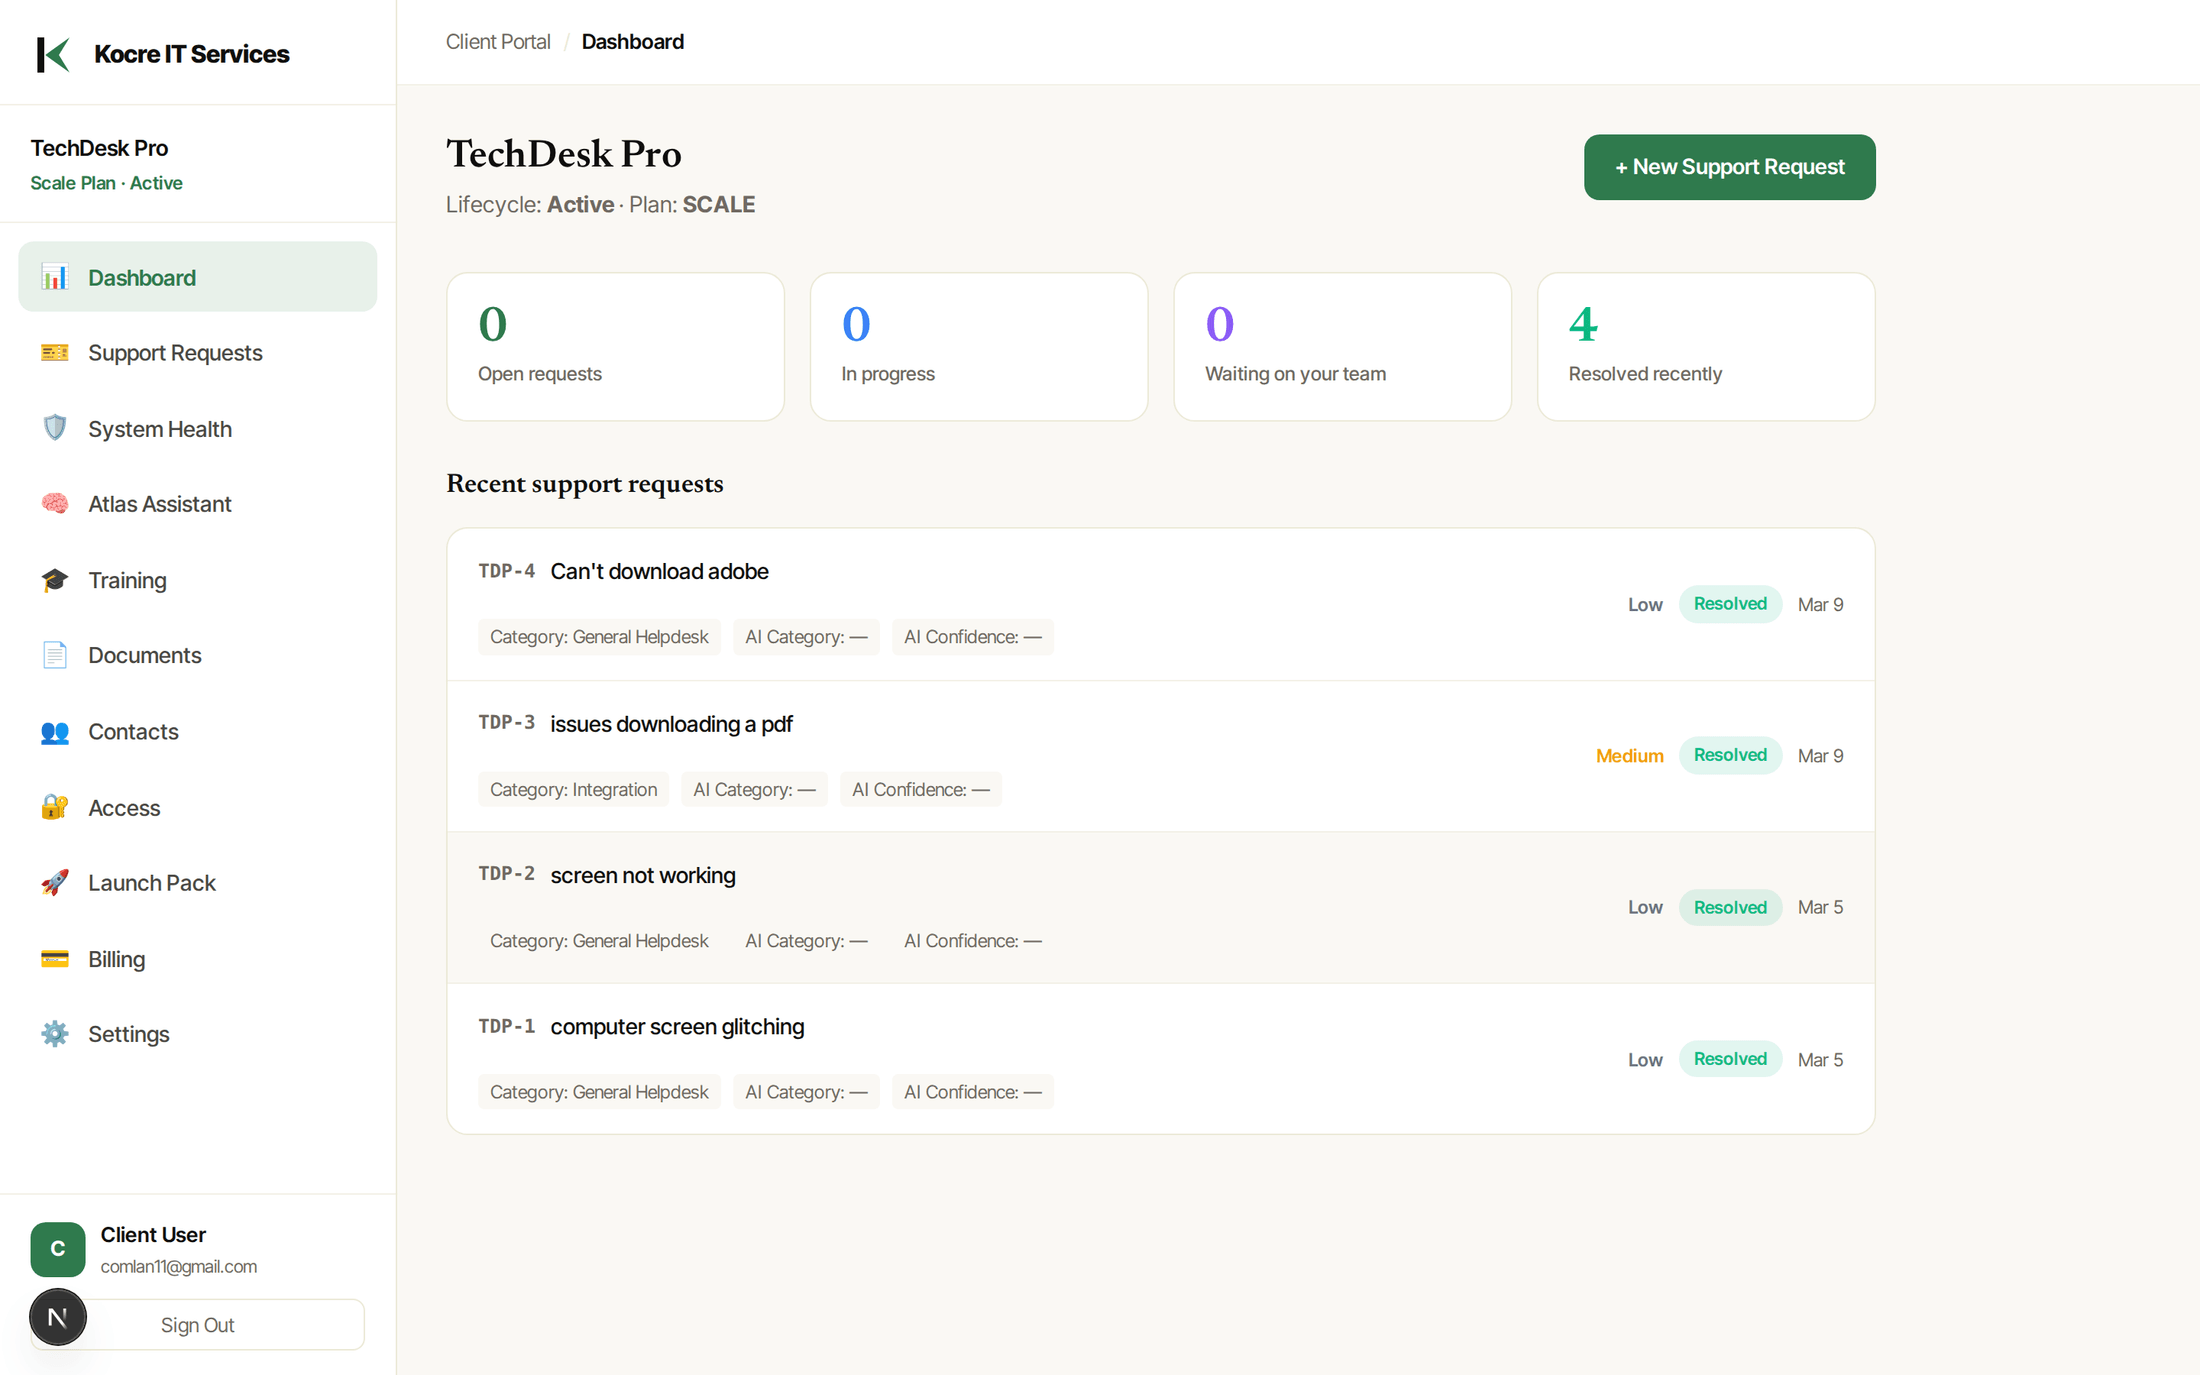
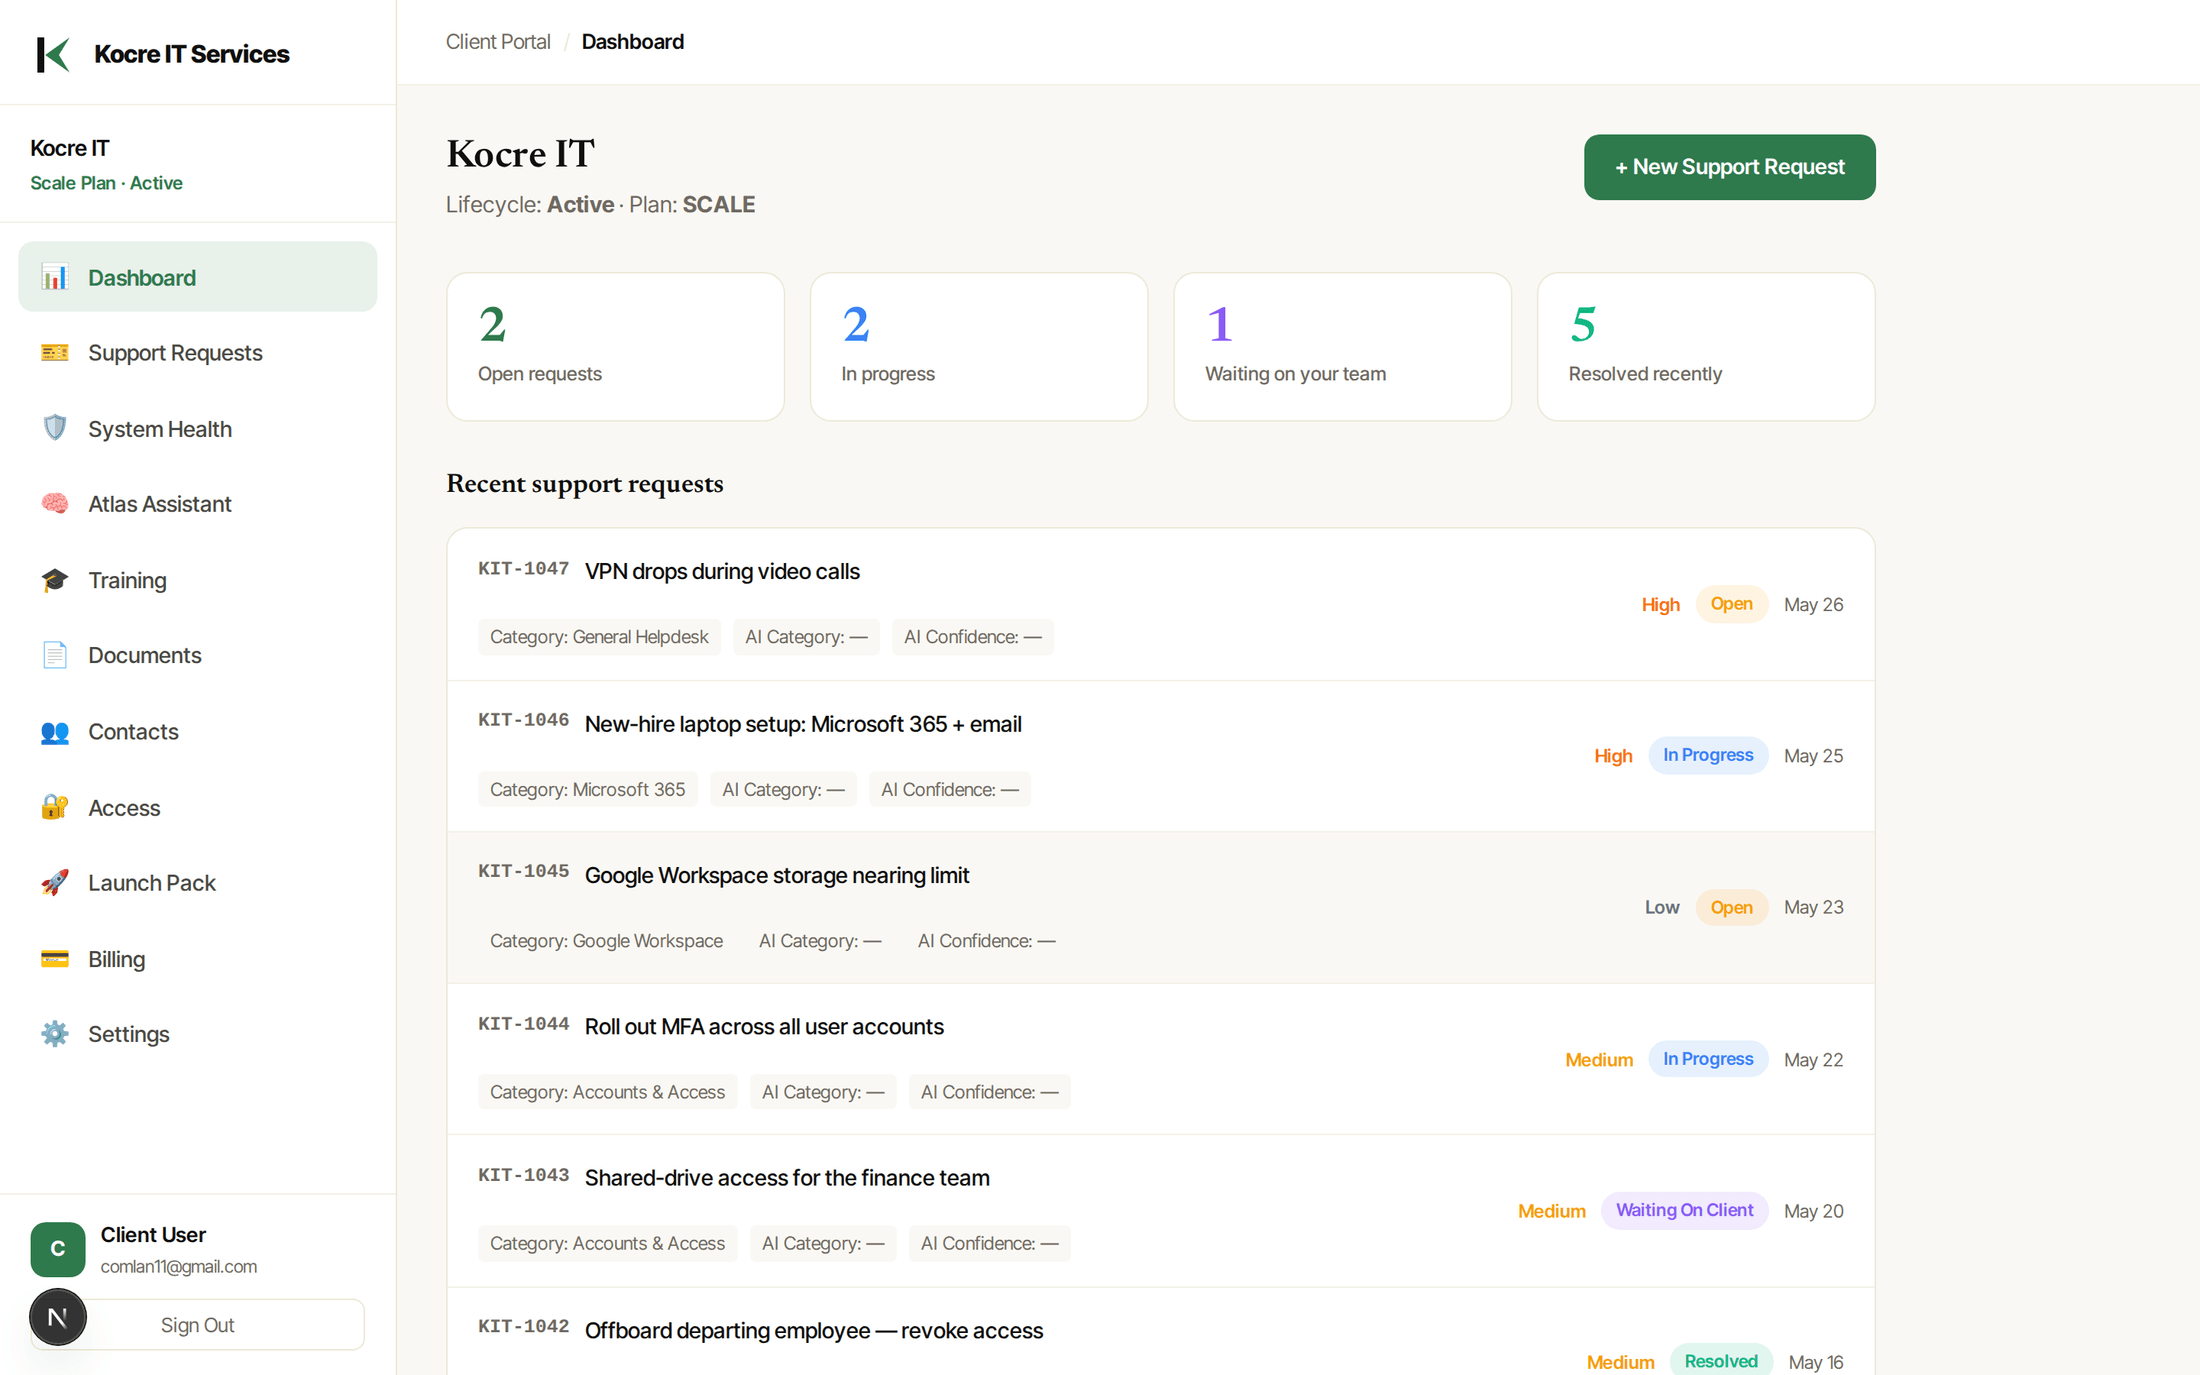
Rebrand TechDesk Pro to Kocre IT and refresh hero portal shot
Replace the generic "TechDesk Pro" brand across pages, AI prompts, and
the OAuth app name; switch the hardcoded ticket prefix TDP- to KIT- in
portal and admin views; update old contact domains to kocreit.com. Swap
the hero portal screenshot for a cleaner one (Kocre IT workspace, KIT-
tickets, varied request statuses).

https://claude.ai/code/session_011dJHhTWhQyHM3tExvhCPLj

diff --git a/techdesk-pro/lib/ghost/reasoning-prompts.js b/techdesk-pro/lib/ghost/reasoning-prompts.js
@@ -7,9 +7,9 @@ export function buildGhostContextPrompt({
   relatedArticles,
 }) {
   return {
-    system: `You are Ghost Admin, the internal support operations brain for TechDesk Pro.
+    system: `You are Ghost Admin, the internal support operations brain for Kocre IT.
 
-TechDesk Pro is a founder-led, remote-first IT support business.
+Kocre IT is a founder-led, remote-first IT support business.
 You are internal-only. You help the operator decide what this support request means, what is blocking it, and what to do next.
 
 Your job:
@@ -99,7 +99,7 @@ ${
         .map(
           (item) =>
             `- ${
-              item.ticket_number ? `TDP-${item.ticket_number}` : item.id.slice(0, 8)
+              item.ticket_number ? `KIT-${item.ticket_number}` : item.id.slice(0, 8)
             } | ${item.title} | ${item.ai_summary || 'No AI summary'}`
         )
         .join('\n')
@@ -113,9 +113,9 @@ Interpret this ticket and return the JSON now.`,
 
 export function buildGhostSearchPrompt({ cleanedQuery, matches }) {
   return {
-    system: `You are Ghost Admin, the internal operations brain for TechDesk Pro.
+    system: `You are Ghost Admin, the internal operations brain for Kocre IT.
 
-TechDesk Pro is a founder-led, remote-first IT support business.
+Kocre IT is a founder-led, remote-first IT support business.
 
 You are given an internal search question plus the best matching records from:
 - support tickets
@@ -152,9 +152,9 @@ Return the JSON now.`,
 
 export function buildAssessmentReviewPrompt({ assessment }) {
   return {
-    system: `You are Ghost Admin, the internal operations brain for TechDesk Pro.
+    system: `You are Ghost Admin, the internal operations brain for Kocre IT.
 
-TechDesk Pro is a founder-led, remote-first IT support business.
+Kocre IT is a founder-led, remote-first IT support business.
 You are reviewing a free assessment submission to help the operator decide:
 - whether this is a strong fit
 - whether human review is needed
@@ -176,7 +176,7 @@ Return ONLY valid JSON in this exact structure:
 }
 
 Rules:
-- stay within TechDesk Pro's remote IT support scope
+- stay within Kocre IT's remote IT support scope
 - do not suggest e-commerce, website-build, or automation-build work
 - be practical for a solo founder
 - if the lead is unclear, say so plainly
@@ -213,9 +213,9 @@ Review this assessment and return the JSON now.`,
 
 export function buildOnboardingReviewPrompt({ organization, linkedAssessment }) {
   return {
-    system: `You are Ghost Admin, the internal lifecycle and onboarding reviewer for TechDesk Pro.
+    system: `You are Ghost Admin, the internal lifecycle and onboarding reviewer for Kocre IT.
 
-TechDesk Pro is a founder-led, remote-first IT support business.
+Kocre IT is a founder-led, remote-first IT support business.
 
 Your job:
 - interpret the current lifecycle state of an organization

diff --git a/techdesk-pro/lib/ghost/ticket-prompts.js b/techdesk-pro/lib/ghost/ticket-prompts.js
@@ -1,8 +1,8 @@
 export function buildSuggestReplyPrompt({ ticket, conversation }) {
   return {
-    system: `You are Ghost Admin, the internal support operator brain for TechDesk Pro.
+    system: `You are Ghost Admin, the internal support operator brain for Kocre IT.
 
-TechDesk Pro is a founder-led, remote-first IT support business.
+Kocre IT is a founder-led, remote-first IT support business.
 
 You are helping the operator prepare the next client-facing reply and internal coaching guidance.
 
@@ -79,9 +79,9 @@ export function buildFollowupDraftPrompt({ ticket, conversation, draftType }) {
   const selected = promptMap[draftType] || promptMap.waiting_on_client
 
   return {
-    system: `You are drafting a client-facing support message for TechDesk Pro.
+    system: `You are drafting a client-facing support message for Kocre IT.
 
-TechDesk Pro is a remote-first IT support business.
+Kocre IT is a remote-first IT support business.
 
 Return ONLY valid JSON:
 {
@@ -117,9 +117,9 @@ Generate the JSON now.`,
 
 export function buildKnowledgeDraftPrompt({ ticket, conversation }) {
   return {
-    system: `You are an IT support knowledge-ops assistant for TechDesk Pro.
+    system: `You are an IT support knowledge-ops assistant for Kocre IT.
 
-TechDesk Pro is a remote-first IT support business.
+Kocre IT is a remote-first IT support business.
 Your task is to convert one resolved support request into an internal KB/SOP draft.
 
 Return ONLY valid JSON in this exact structure:

diff --git a/techdesk-pro/app/admin/tickets/[id]/page.js b/techdesk-pro/app/admin/tickets/[id]/page.js
@@ -617,7 +617,7 @@ export default function AdminTicketDetail() {
                   {toLabel(status, STATUS_LABELS)}
                 </span>
                 <span className="admin-table-muted">
-                  {ticket.ticket_number ? `TDP-${ticket.ticket_number}` : `#${ticket.id.slice(0, 8)}`}
+                  {ticket.ticket_number ? `KIT-${ticket.ticket_number}` : `#${ticket.id.slice(0, 8)}`}
                 </span>
                 <span className="admin-table-muted">·</span>
                 <span className="admin-table-muted">{ticket.organization?.name || 'Unknown organization'}</span>
@@ -930,7 +930,7 @@ export default function AdminTicketDetail() {
                           {ghostContext.similar_tickets.map((item) => (
                             <div key={item.id} style={{ paddingBottom: 8, borderBottom: '1px solid #f0ede8' }}>
                               <div style={{ fontWeight: 600, fontSize: '0.84rem', color: '#111827' }}>
-                                {item.ticket_number ? `TDP-${item.ticket_number}` : item.id.slice(0, 8)} — {item.title}
+                                {item.ticket_number ? `KIT-${item.ticket_number}` : item.id.slice(0, 8)} — {item.title}
                               </div>
                               <div className="admin-table-muted" style={{ fontSize: '0.82rem', lineHeight: 1.6 }}>
                                 {item.summary || 'No summary available'}

diff --git a/techdesk-pro/app/portal/tickets/page.js b/techdesk-pro/app/portal/tickets/page.js
@@ -152,7 +152,7 @@ export default function TicketsPage() {
       if (!q) return true
       return (
         ticket.title?.toLowerCase().includes(q) ||
-        `tdp-${ticket.ticket_number || ''}`.toLowerCase().includes(q) ||
+        `kit-${ticket.ticket_number || ''}`.toLowerCase().includes(q) ||
         (ticket.ai_category || '').toLowerCase().includes(q) ||
         humanize(ticket.category, CATEGORY_LABELS).toLowerCase().includes(q)
       )
@@ -225,7 +225,7 @@ export default function TicketsPage() {
               <div className="ticket-row-left" style={{ flexDirection: 'column', alignItems: 'flex-start' }}>
                 <div style={{ display: 'flex', alignItems: 'center', gap: 10, width: '100%' }}>
                   <span className="ticket-number">
-                    {ticket.ticket_number ? `TDP-${ticket.ticket_number}` : `#${ticket.id.slice(0, 8)}`}
+                    {ticket.ticket_number ? `KIT-${ticket.ticket_number}` : `#${ticket.id.slice(0, 8)}`}
                   </span>
                   <span className="ticket-title">{ticket.title}</span>
                 </div>

diff --git a/techdesk-pro/app/privacy/page.js b/techdesk-pro/app/privacy/page.js
@@ -175,8 +175,8 @@ export default function PrivacyPage() {
           <p style={pStyle}>
             Depending on applicable law, you may have rights to request access, correction, deletion,
             or other control over your personal information. To make a request, contact us at{' '}
-            <a href="mailto:privacy@techdeskpro.com" style={linkStyle}>
-              privacy@techdeskpro.com
+            <a href="mailto:privacy@kocreit.com" style={linkStyle}>
+              privacy@kocreit.com
             </a>
             . We may need to verify your identity before processing a request.
           </p>
@@ -205,8 +205,8 @@ export default function PrivacyPage() {
             For privacy questions or requests, contact:
             <br />
             Email:{' '}
-            <a href="mailto:privacy@techdeskpro.com" style={linkStyle}>
-              privacy@techdeskpro.com
+            <a href="mailto:privacy@kocreit.com" style={linkStyle}>
+              privacy@kocreit.com
             </a>
             <br />
             Mailing Address: [Your Business Mailing Address]

diff --git a/techdesk-pro/app/ecommerce/page.js b/techdesk-pro/app/ecommerce/page.js
@@ -1,6 +1,6 @@
 export const metadata = {
-  title: 'Support Scope | TechDesk Pro',
-  description: 'TechDesk Pro support scope and boundaries for remote IT and cloud/SaaS support.',
+  title: 'Support Scope | Kocre IT',
+  description: 'Kocre IT support scope and boundaries for remote IT and cloud/SaaS support.',
 }
 
 export default function SupportScopePage() {
@@ -8,7 +8,7 @@ export default function SupportScopePage() {
     <main style={{ maxWidth: 860, margin: '0 auto', padding: '32px 16px 60px' }}>
       <h1 style={{ marginBottom: 8 }}>Support Scope</h1>
       <p style={{ color: 'var(--ink-muted)', marginBottom: 18 }}>
-        TechDesk Pro is focused on remote-first IT support, cloud administration, and SaaS operations support.
+        Kocre IT is focused on remote-first IT support, cloud administration, and SaaS operations support.
       </p>
       <div style={{ background: 'white', border: '1px solid var(--border)', borderRadius: 12, padding: 20 }}>
         <h2 style={{ marginBottom: 10 }}>What we handle</h2>

diff --git a/techdesk-pro/app/admin/tickets/page.js b/techdesk-pro/app/admin/tickets/page.js
@@ -155,7 +155,7 @@ function AdminTicketsContent() {
         (ticket.ai_category || '').toLowerCase().includes(q) ||
         humanize(ticket.ai_category, CATEGORY_LABELS).toLowerCase().includes(q) ||
         humanize(ticket.category, CATEGORY_LABELS).toLowerCase().includes(q) ||
-        `tdp-${ticket.ticket_number || ''}`.toLowerCase().includes(q)
+        `kit-${ticket.ticket_number || ''}`.toLowerCase().includes(q)
       )
     })
   }, [tickets, search])
@@ -333,7 +333,7 @@ function AdminTicketsContent() {
                       style={{ cursor: 'pointer' }}
                     >
                       <div className="admin-table-title">
-                        {ticket.ticket_number ? `TDP-${ticket.ticket_number}` : `#${ticket.id.slice(0, 8)}`}
+                        {ticket.ticket_number ? `KIT-${ticket.ticket_number}` : `#${ticket.id.slice(0, 8)}`}
                       </div>
                       <div className="admin-table-sub">{ticket.title}</div>
                     </td>

diff --git a/techdesk-pro/app/portal/dashboard/page.js b/techdesk-pro/app/portal/dashboard/page.js
@@ -359,7 +359,7 @@ export default function DashboardPage() {
                     <div className="ticket-row-left" style={{ flexDirection: 'column', alignItems: 'flex-start' }}>
                       <div style={{ display: 'flex', gap: 10, alignItems: 'center' }}>
                         <span className="ticket-number">
-                          {ticket.ticket_number ? `TDP-${ticket.ticket_number}` : `#${ticket.id.slice(0, 8)}`}
+                          {ticket.ticket_number ? `KIT-${ticket.ticket_number}` : `#${ticket.id.slice(0, 8)}`}
                         </span>
                         <span className="ticket-title">{ticket.title}</span>
                       </div>

diff --git a/techdesk-pro/app/admin/kb/page.js b/techdesk-pro/app/admin/kb/page.js
@@ -360,7 +360,7 @@ export default function AdminKnowledgePage() {
                         <td>
                           <div className="admin-table-title">{draft.title || 'Untitled Draft'}</div>
                           <div className="admin-table-sub">
-                            {ticket?.ticket_number ? `TDP-${ticket.ticket_number}` : draft.ticket_id?.slice(0, 8) || '—'}
+                            {ticket?.ticket_number ? `KIT-${ticket.ticket_number}` : draft.ticket_id?.slice(0, 8) || '—'}
                             {' · '}
                             {ticket?.title || 'Unknown ticket'}
                           </div>

diff --git a/techdesk-pro/app/portal/tickets/[id]/page.js b/techdesk-pro/app/portal/tickets/[id]/page.js
@@ -168,7 +168,7 @@ export default function TicketDetailPage() {
       {/* Support Request Header */}
       <div className="ticket-detail-header">
         <div className="ticket-detail-title-row">
-          <span className="ticket-number">{ticket.ticket_number ? `TDP-${ticket.ticket_number}` : `#${ticket.id.slice(0, 8)}`}</span>
+          <span className="ticket-number">{ticket.ticket_number ? `KIT-${ticket.ticket_number}` : `#${ticket.id.slice(0, 8)}`}</span>
           <h1>{ticket.title}</h1>
         </div>
         <div className="ticket-detail-meta">

diff --git a/techdesk-pro/lib/ghost/reasoning-loaders.js b/techdesk-pro/lib/ghost/reasoning-loaders.js
@@ -271,7 +271,7 @@ export async function loadGhostSearchBundle(query) {
         id: ticket.id,
         title: ticket.title || 'Untitled ticket',
         subtitle: `${ticket.organization?.name || 'Unknown client'} · ${
-          ticket.ticket_number ? `TDP-${ticket.ticket_number}` : ticket.id.slice(0, 8)
+          ticket.ticket_number ? `KIT-${ticket.ticket_number}` : ticket.id.slice(0, 8)
         }`,
         href: `/admin/tickets/${ticket.id}`,
         reason: ticket.ai_summary || ticket.description || 'Support request match',

diff --git a/techdesk-pro/lib/oauth/platforms.js b/techdesk-pro/lib/oauth/platforms.js
@@ -34,7 +34,7 @@ export const PLATFORMS = {
     needsShopDomain: true,
     getAuthUrl: (shopDomain, clientId, redirectUri, state) => {
       const callbackUrl = encodeURIComponent(redirectUri)
-      return `https://${shopDomain}/wc-auth/v1/authorize?app_name=TechDesk+Pro&scope=read&user_id=${state}&return_url=${callbackUrl}&callback_url=${callbackUrl}`
+      return `https://${shopDomain}/wc-auth/v1/authorize?app_name=Kocre+IT&scope=read&user_id=${state}&return_url=${callbackUrl}&callback_url=${callbackUrl}`
     },
   },
 
